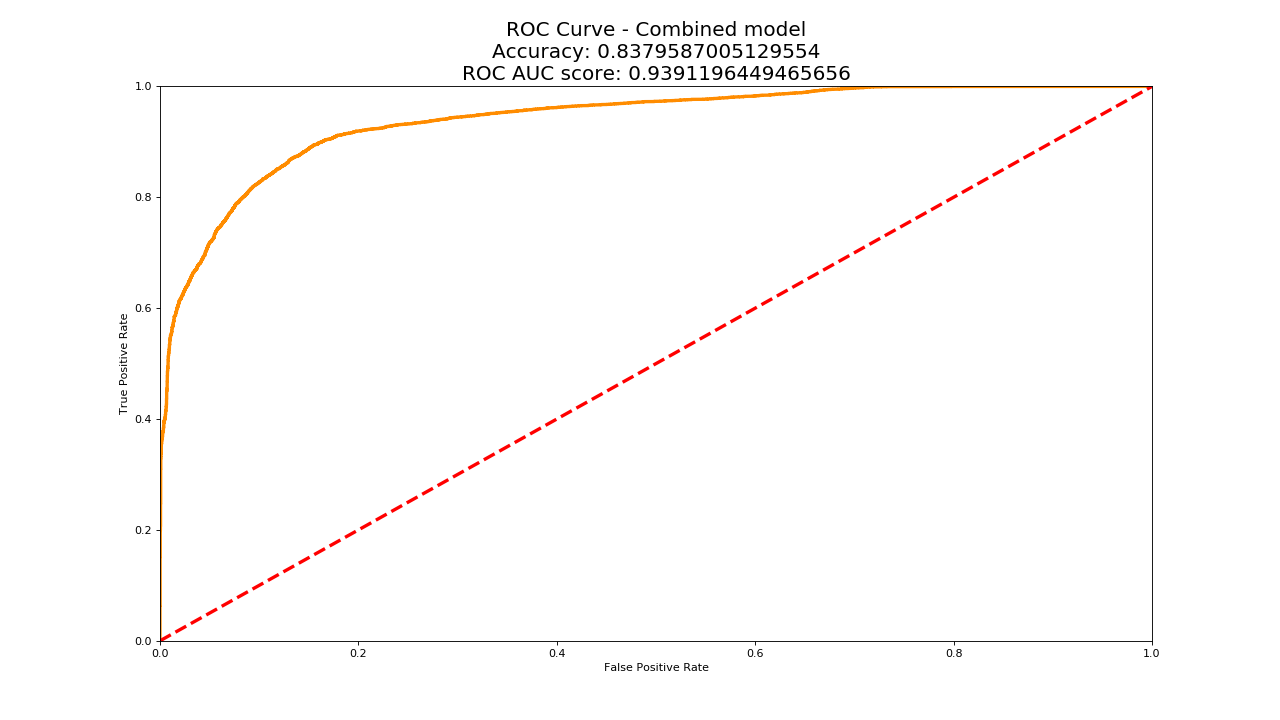
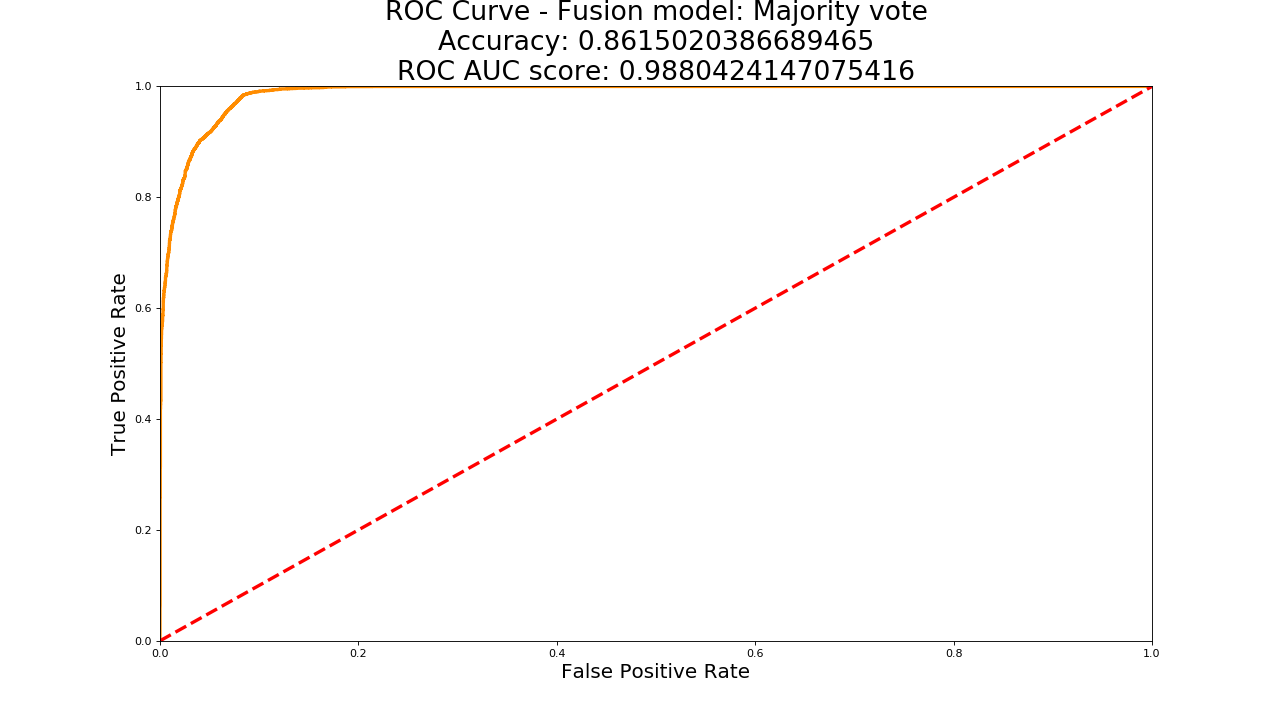
Improve visibility of text in plots by increasing font size.

diff --git a/statistics.py b/statistics.py
@@ -6,16 +6,15 @@ from feature_utils import remove_extreme_values
 from graph_utils import reduce_graph_by_weight_threshold, draw_network
 from scipy.stats.kde import gaussian_kde
 from sklearn.metrics import accuracy_score, confusion_matrix, roc_auc_score, roc_curve
-from classification_utils import score_classifier, scores_to_table
 
 
 def generate_distribution_plot(vector, name, file):
     plt.figure(figsize=(16, 9), dpi=1280 // 16)
     plt.suptitle('Distribution plot for ' + name.lower(), fontsize=24)
     plt.subplot(1, 2, 1)
-    plt.title('Histogram for ' + name.lower())
+    plt.title('Histogram for ' + name.lower(), fontsize=18)
     plt.hist(vector, bins='sturges', color='darkorange', edgecolor='black', density=True)
-    plt.xlabel(name)
+    plt.xlabel(name, fontsize=18)
     x = np.arange(min(vector), max(vector), 0.01, dtype='float')
     kernel = gaussian_kde(vector)
     kernel.covariance_factor = lambda: 0.25
@@ -23,12 +22,12 @@ def generate_distribution_plot(vector, name, file):
     density = kernel.evaluate(x)
     plt.plot(x, density, color='red', linewidth=3)
     plt.subplot(1, 2, 2)
-    plt.title('Boxplot for ' + name.lower() + '\nMedian: ' + str(np.percentile(vector, 50)))
+    plt.title('Boxplot for ' + name.lower() + '\nMedian: ' + str(np.percentile(vector, 50)), fontsize=14)
     plt.boxplot(vector, patch_artist=True, boxprops={'facecolor': 'darkorange'},
                 medianprops={'color': 'black', 'linewidth': 3},
                 flierprops={'marker': 'o', 'markerfacecolor': 'red', 'markersize': 6})
     plt.xticks([])
-    plt.xlabel(name)
+    plt.xlabel(name, fontsize=18)
     plt.savefig(file, dpi="figure")
 
 
@@ -43,12 +42,12 @@ def get_confusion_matrix_and_plot_roc_curve(predicted_labels, predicted_label_pr
     plt.plot([0, 1], [0, 1], color='red', lw=3, linestyle='--')
     plt.xlim([0, 1])
     plt.ylim([0, 1])
-    plt.xlabel('False Positive Rate')
-    plt.ylabel('True Positive Rate')
+    plt.xlabel('False Positive Rate', fontsize=18)
+    plt.ylabel('True Positive Rate', fontsize=18)
     plt.title('ROC Curve - ' + str(name) +
               '\nAccuracy: ' + str(accuracy) +
               '\nROC AUC score: ' + str(roc_score),
-              fontsize=18)
+              fontsize=24)
     plt.savefig(file, dpi="figure")
     return confusion_mat
 
